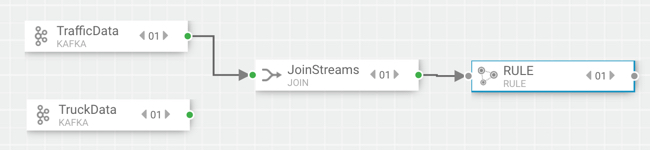
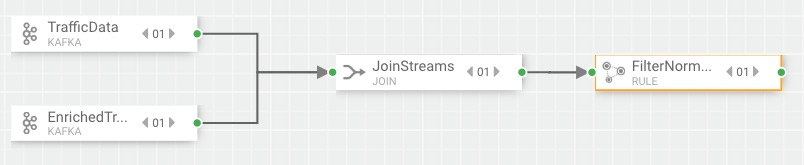
Udpate for HDF3.1.1

diff --git a/tutorials/hdf/sam-trucking-iot-on-hdf/tutorial-2.md b/tutorials/hdf/sam-trucking-iot-on-hdf/tutorial-2.md
@@ -19,6 +19,7 @@ Skills you will gain:
 ## Outline
 
 - [Environment Setup](#environment-setup)
+- [Trucking IoT SAM Topology](#trucking-iot-sam-topology)
 - [Add a New SAM topology](#add-a-new-sam-topology)
 - [Building the SAM Topology](#building-the-sam-topology)
 - [Summary](#summary)
@@ -49,9 +50,13 @@ Before we can create the SAM topology, we need to start the producer to store da
 
 > Note: NiFi flow should be kept running until the end of the tutorial.
 
-![nifi_producer](assets/images/nifi_producer.jpg)
+![nifi_producer](assets/images/dataflow.jpg)
 
 > Note: If you want to learn more about how to build the NiFi Flow, refer to [NiFi in Trucking IoT](https://hortonworks.com/tutorial/nifi-in-trucking-iot-on-hdf/) tutorial.
+
+## Trucking Iot SAM Topology
+
+If you have the latest HDF Sandbox you will will have the Trucking-IoT-Demo under My Applications. Go through the process of creating a New Application where you will recreate the SAM topology and use the existing Trucking-IoT-Demo SAM topology as a reference.
 
 ## Add a New SAM topology
 
@@ -98,7 +103,7 @@ The result after adding the Ambari Cluster URL will be that SAM retrieves all Am
 
 2\. On the top right of the page, you would click the plus button to add a new environment. When adding the enviroment for Trucking IoT application, we performed the following actions.
 
-3\. Named the Environment. In our case, we chose the name:
+3\. Name the Environment. In our case, we chose the name:
 
 ~~~bash
 SandboxEnvironment
@@ -157,116 +162,28 @@ Before we start adding components to the canvas, lets verify our Kafka topics an
 Output you should see:
 
 ~~~bash
-trucking_avg_speed
+trucking_data_driverstats                                     
+trucking_data_joined                                           
 trucking_data_traffic
-trucking_data_truck
-trucking_violations
+trucking_data_truck_enriched
 ~~~
 
 If you don't see the topics listed above, then create them:
 
 ~~~bash
-# trucking_data_truck
-/usr/hdf/current/kafka-broker/bin/kafka-topics.sh --create --zookeeper localhost:2181 --replication-factor 1 --partitions 10 --topic trucking_data_truck
+# trucking_data_driverstats
+/usr/hdf/current/kafka-broker/bin/kafka-topics.sh --create --zookeeper localhost:2181 --replication-factor 1 --partitions 10 --topic trucking_data_driverstats
+
+# trucking_data_joined
+/usr/hdf/current/kafka-broker/bin/kafka-topics.sh --create --zookeeper localhost:2181 --replication-factor 1 --partitions 10 --topic trucking_data_joined
 
 # trucking_data_traffic
 /usr/hdf/current/kafka-broker/bin/kafka-topics.sh --create --zookeeper localhost:2181 --replication-factor 1 --partitions 10 --topic trucking_data_traffic
 
-# trucking_violations
-/usr/hdf/current/kafka-broker/bin/kafka-topics.sh --create --zookeeper localhost:2181 --replication-factor 1 --partitions 10 --topic trucking_violations
-
-# trucking_avg_speed
-/usr/hdf/current/kafka-broker/bin/kafka-topics.sh --create --zookeeper localhost:2181 --replication-factor 1 --partitions 10 --topic trucking_avg_speed
+# trucking_data_truck_enriched
+/usr/hdf/current/kafka-broker/bin/kafka-topics.sh --create --zookeeper localhost:2181 --replication-factor 1 --partitions 10 --topic trucking_data_truck_enriched
 ~~~
 
-**Schemas Dependency Verification**
-
-The HDF Sandbox comes with most of the trucking IoT schemas needded for the SAM topology, but we will need to create two schemas in order for the application to just be dependent on HDF.
-
-3\. Create two new schemas for `trucking_violations` and `trucking_avg_speed` in Hortonworks' Schema Registry UI: `http://sandbox-hdf.hortonworks.com:7788/`.
-
-4\. Click the " + " button. Add the following information into the "Add New Schema" window:
-
-**Trucking Violations Schema**
-
-~~~bash
-Name: trucking_violations
-
-Description: data illustrates trucking violations
-
-Type: Avro schema provider
-
-Schema Group: Kafka
-
-Compatibility: Backward
-
-Evolve: Checkmark
-
-Schema Text:
-
-{
-    "type" : "record",
-    "namespace" : "com.orendainx.hortonworks.trucking",
-    "name" : "TruckViolations",
-    "fields" : [
-        { "name" : "eventTime" , "type" : "long" },
-        { "name" : "routeId" , "type" : "int" },
-        { "name" : "congestionLevel" , "type" : "int" },
-        { "name" : "truckId" , "type" : "int" },
-        { "name" : "speed" , "type" : "int" },
-        { "name" : "eventType" , "type" : "string" },
-        { "name" : "windy" , "type" : "boolean" },
-        { "name" : "rainy" , "type" : "boolean" },
-        { "name" : "foggy" , "type" : "boolean" },
-        { "name" : "longitude" , "type" : "double" },
-        { "name" : "latitude" , "type" : "double" },
-        { "name" : "routeName" , "type" : "string" },
-        { "name" : "driverId" , "type" : "int" },
-        { "name" : "driverName" , "type" : "string" }                             
-    ]
-}
-~~~
-
-When you verify the information is entered, confirm adding the new schema and click OK.
-
-**Trucking Average Speed Schema**
-
-~~~bash
-Name: trucking_avg_speed
-
-Description: data illustrates drivers average speed
-
-Type: Avro schema provider
-
-Schema Group: Kafka
-
-Compatibility: Backward
-
-Evolve: Checkmark
-
-Schema Text:
-
-{
-    "type" : "record",
-    "namespace" : "com.orendainx.hortonworks.trucking",
-    "name" : "TruckingAvgSpeed",
-    "fields" : [
-        { "name" : "driverId" , "type" : "int" },
-        { "name" : "routeId" , "type" : "int" },
-        { "name" : "speed" , "type" : "int" },
-        { "name" : "foggy" , "type" : "boolean" },
-        { "name" : "rainy" , "type" : "boolean" },
-        { "name" : "speed_AVG" , "type" : "double" },
-        { "name" : "windy" , "type" : "boolean" }
-    ]
-}
-~~~
-
-![schemas_kafka_sinks](assets/images/schemas_kafka_sinks.jpg)
-
-With these two new schemas, we can transport data between Kafka queues.
-
-When you verify the information is entered, confirm adding the new schema and click OK.
 
 **Note:** For more information on how Schemas are being registered into Schema Registry and the architecture works, visit [Schema Registry in Trucking IoT on HDF](https://hortonworks.com/tutorial/schema-registry-in-trucking-iot-on-hdf/)
 
@@ -278,7 +195,7 @@ Lets began designing and creating our topology!
 
 1\. Add 2 KAFKA source components onto the canvas as shown in **Figure 1**.
 
-![kafka_source_components](assets/images/kafka_source_components.jpg)
+![kafka_source_components](assets/images/kafka_source_componentS.jpg)
 
 **Figure 1: Kafka Source Components**
 
@@ -286,7 +203,7 @@ Lets began designing and creating our topology!
 
 Enter the following properties for the first Kafka Source you opened:
 
-| Kafka Source 1    | Properties     |
+| KAFKA SOURCE     | Properties     |
 | :------------- | :------------- |
 | Name       | TrafficData       |
 | **Tab**       | **REQUIRED**       |
@@ -295,22 +212,22 @@ Enter the following properties for the first Kafka Source you opened:
 | Bootstrap Servers       | sandbox-hdf.hortonworks.com:6667       |
 | Kafka Topic       | trucking_data_traffic       |
 | Reader Schema Version | 1 |
-| Consumed Group ID | trucking_data_traffic1 |
+| Consumed Group ID | c |
 | **Tab**       | **OPTIONAL**       |
 | First Poll Offset Strategy | EARLIEST |
 
 When you are done, click OK.
 
-| Kafka Source 2    | Properties     |
+| KAFKA SOURCE 1    | Properties     |
 | :------------- | :------------- |
 | Name       | TruckData       |
 | **Tab**       | **REQUIRED**       |
 | Cluster Name       | Sandbox      |
 | Security Protocol       | PLAINTEXT       |
 | Bootstrap Servers       | sandbox-hdf.hortonworks.com:6667       |
-| Kafka Topic       | trucking_data_truck       |
+| Kafka Topic       | trucking_data_truck_enriched       |
 | Reader Schema Version | 1 |
-| Consumed Group ID | trucking_data_truck1 |
+| Consumed Group ID | c |
 | **Tab**       | **OPTIONAL**       |
 | First Poll Offset Strategy | EARLIEST |
 
@@ -322,7 +239,7 @@ When you are done, click OK.
 
 3\. Add 3 processor components: JOIN, RULE and AGGREGATE onto the canvas.
 
-![join_rule_aggregate](assets/images/join_rule_aggregate.jpg)
+![join_rule_aggregate](assets/images/join_rule_aggregatE.jpg)
 
 4\. The two Kafka sources have green bubbles on their rightside edge, click, hold and drag to connect to the JOIN processors grey bubble located on its leftside edge.
 
@@ -330,7 +247,7 @@ When you are done, click OK.
 
 5\. Configure all three components. Double click on each component, enter the following properties for the appropriate processor:
 
-| JOIN    | Properties     |
+| JOIN   | Properties     |
 | :------------- | :------------- |
 | Name       | JoinStreams       |
 | **Tab**       | **CONFIGURATION**       |
@@ -362,7 +279,7 @@ Enter the following properties:
 
 | RULE    | Properties     |
 | :------------- | :------------- |
-| Name       | FilterEvents       |
+| Name       | FilterNormalEvents       |
 | **Tab**       | **CONFIGURATION**       |
 | Add New Rule `Rule Name`       | IsViolation       |
 | Add New Rule `Description`       | IsViolation       |
@@ -384,10 +301,9 @@ FilterEvents-AGGREGATE window will appear, select OK. Enter the following proper
 
 | AGGREGATE    | Properties     |
 | :------------- | :------------- |
-| Name       | AverageSpeed       |
+| Name       | TimeSeriesAnalysis       |
 | **Tab**       | **CONFIGURATION**       |
-| SELECT KEYS | driverId, routeId, speed |
-| SELECT KEYS | foggy, rainy, windy |
+| SELECT KEYS | driverId, routeId |
 | WINDOW INTERVAL TYPE | Time |
 | WINDOW INTERVAL | 10 |
 | WINDOW INTERVAL | Seconds |
@@ -397,8 +313,22 @@ FilterEvents-AGGREGATE window will appear, select OK. Enter the following proper
 | LAG IN SECONDS | 1 |
 | **BOX** | **Output Fields** |
 | INPUT | speed |
-| AGGREGATE FUNCTION | AVG |
-| OUTPUT | speed_AVG |
+|AGGREGATE FUNCTION | AVG |
+| OUTPUT | averageSpeed |
+| INPUT | foggy|
+| AGGREGATE FUNCTION | SUM |
+| OUTPUT | totalFog |
+| INPUT | rainy|
+| AGGREGATE FUNCTION | SUM |
+| OUTPUT | totalRain |
+| INPUT | windy|
+| AGGREGATE FUNCTION | SUM |
+| OUTPUT | totalWind |
+| INPUT | eventTime|
+| AGGREGATE FUNCTION | SUM |
+| OUTPUT | totalViolations |
+
+
 
 Once you click OK, the configuration has been confirmed.
 
@@ -409,9 +339,9 @@ Connect AverageSpeed processor to Kafka Sink 1 (ToAvgSpeed). Configure the proce
 | KAFKA SINK 1   | Properties     |
 | :------------- | :------------- |
 | **Tab** | **REQUIRED** |
-| Name       | ToAvgSpeed     |
+| Name       | ToDriverStats     |
 | CLUSTER NAME | Sandbox |
-| Kafka Topic | trucking_avg_speed |
+| Kafka Topic | trucking_data_driverstats|
 | Writer Schema Version | 1 |
 | Security Protocol | PLAINTEXT |
 | Bootstrap Servers | sandbox-hdf.hortonworks.com:6667 |
@@ -423,9 +353,9 @@ Connect ViolationEvents processor to Kafka Sink 2 (ToViolationEvents). Configure
 | KAFKA SINK 2  | Properties     |
 | :------------- | :------------- |
 | **Tab** | **REQUIRED** |
-| Name       | ToViolationEvents     |
+| Name       | ToDataJoined    |
 | CLUSTER NAME | Sandbox |
-| Kafka Topic | trucking_violations |
+| Kafka Topic | trucking_data_joined |
 | Writer Schema Version | 1 |
 | Security Protocol | PLAINTEXT |
 | Bootstrap Servers | sandbox-hdf.hortonworks.com:6667 |
@@ -434,7 +364,7 @@ Click OK to confirm configuration.
 
 After building the SAM topology, you can deploy it by pressing the green arrow:
 
-![trucking_iot_topology](assets/images/trucking_iot_topology.jpg)
+![trucking_iot_topology](assets/images/sam_start.jpg)
 
 You will see the status shows not running, once you run it the following window "Are you sure want to continue with this configuration?" will appear, make sure to configure it with the following properties:
 
@@ -444,12 +374,12 @@ You will see the status shows not running, once you run it the following window 
 | NUMBER OF WORKERS       | 1     |
 | NUMBER OF ACKERS | 1 |
 | TOPOLOGY MESSAGE TIMEOUT (SECONDS) | 30 |
-| TOPOLOGY WORKER JVM OPTIONS | -Xmx1000m |
+| TOPOLOGY WORKER JVM OPTIONS |  |
 | NUMBER OF EVENT SAMPLING TASKS | 1 |
 
 Click OK to confirm configuration.
 
-![trucking_iot_topology_deployed](assets/images/trucking_iot_topology_deployed.jpg)
+![trucking_iot_topology_deployed](assets/images/sam_active.jpg)
 
 You just deployed your SAM topology.
 
@@ -459,17 +389,17 @@ Lets check the data in our Kafka Sink topics:
 
 ~~~bash
 # trucking_violations
-/usr/hdf/current/kafka-broker/bin/kafka-console-consumer.sh --zookeeper localhost:2181 --topic trucking_violations --from-beginning
+/usr/hdf/current/kafka-broker/bin/kafka-console-consumer.sh --zookeeper localhost:2181 --topic trucking_data_driverstats --from-beginning
 
 # trucking_avg_speed
-/usr/hdf/current/kafka-broker/bin/kafka-console-consumer.sh --zookeeper localhost:2181 --topic trucking_avg_speed --from-beginning
+/usr/hdf/current/kafka-broker/bin/kafka-console-consumer.sh --zookeeper localhost:2181 --topic trucking_data_joined --from-beginning
 ~~~
 
 > Note: press control + C to exit from the Kafka view messages.
 
 ## Summary
 
-Congratulations you just built a SAM topology. You learned how to pull in data from the source that supplies it, such as Kafka, using Kafka source component. You used Join, Rule and Aggregate processors to do processing on the data. You also used Kafka Sink components to store data into Kafka topics. In the next tutorial you will connect HDF and HDP Sandboxes via SAM, Druid and HDFS.
+Congratulations you just built a SAM topology. You learned how to pull in data from the source that supplies it, such as Kafka, using Kafka source component. You used Join, Rule and Aggregate processors to do processing on the data. You also used Kafka Sink components to store data into Kafka topics.
 
 ## Further Reading
 

diff --git a/tutorials/hdf/sam-trucking-iot-on-hdf/tutorial-0.md b/tutorials/hdf/sam-trucking-iot-on-hdf/tutorial-0.md
@@ -7,7 +7,7 @@ persona: Developer
 source: Hortonworks
 use case: Streaming
 technology: Streaming Analytics Manager
-release: hdf-3.1.0
+release: hdf-3.1.1
 environment: Sandbox
 product: HDF
 series: HDF > Develop Data Flow & Streaming Applications > Hello World
